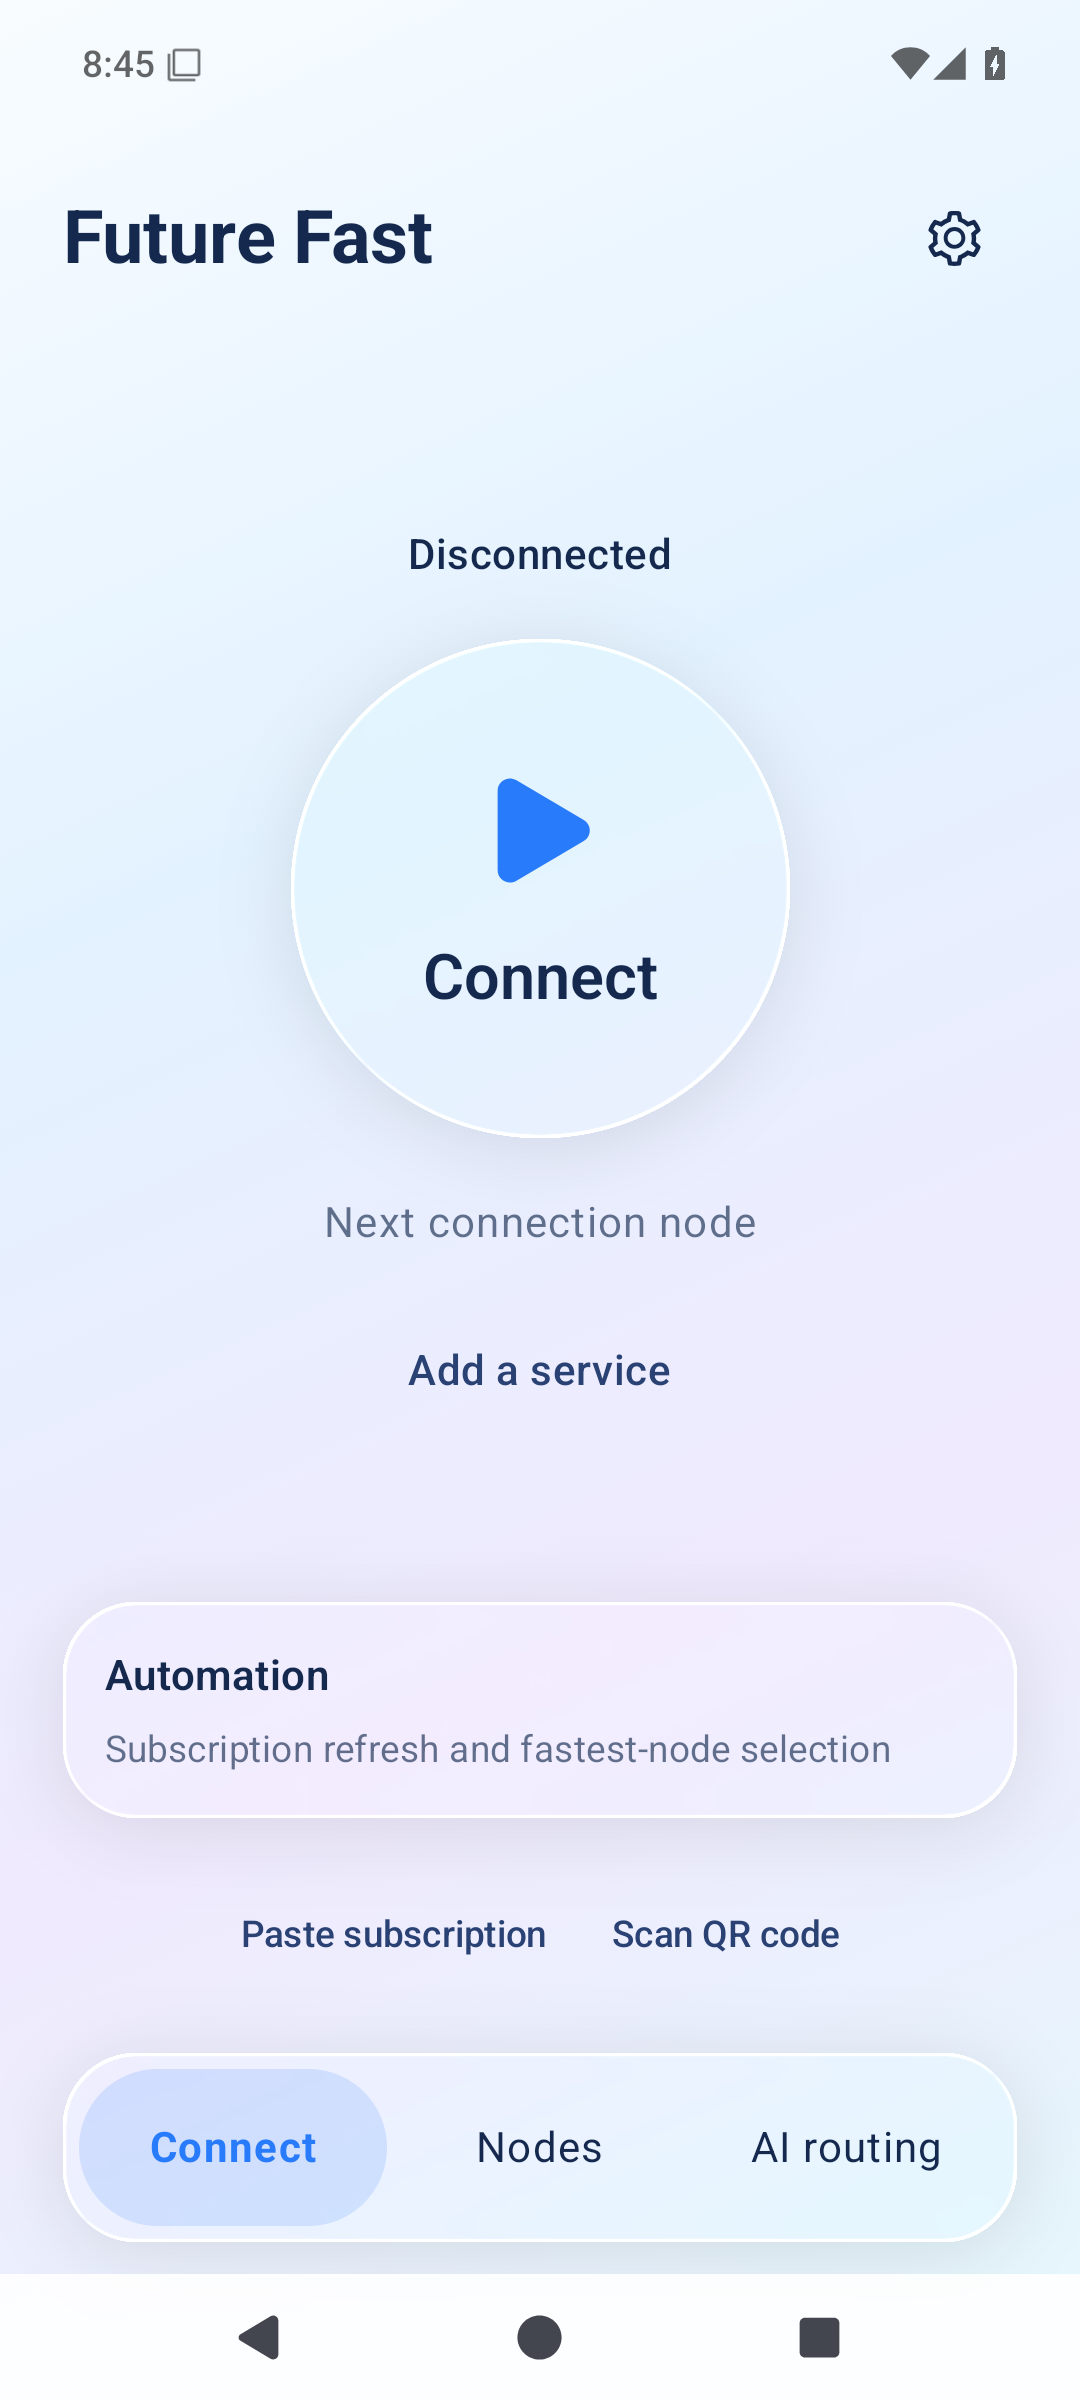
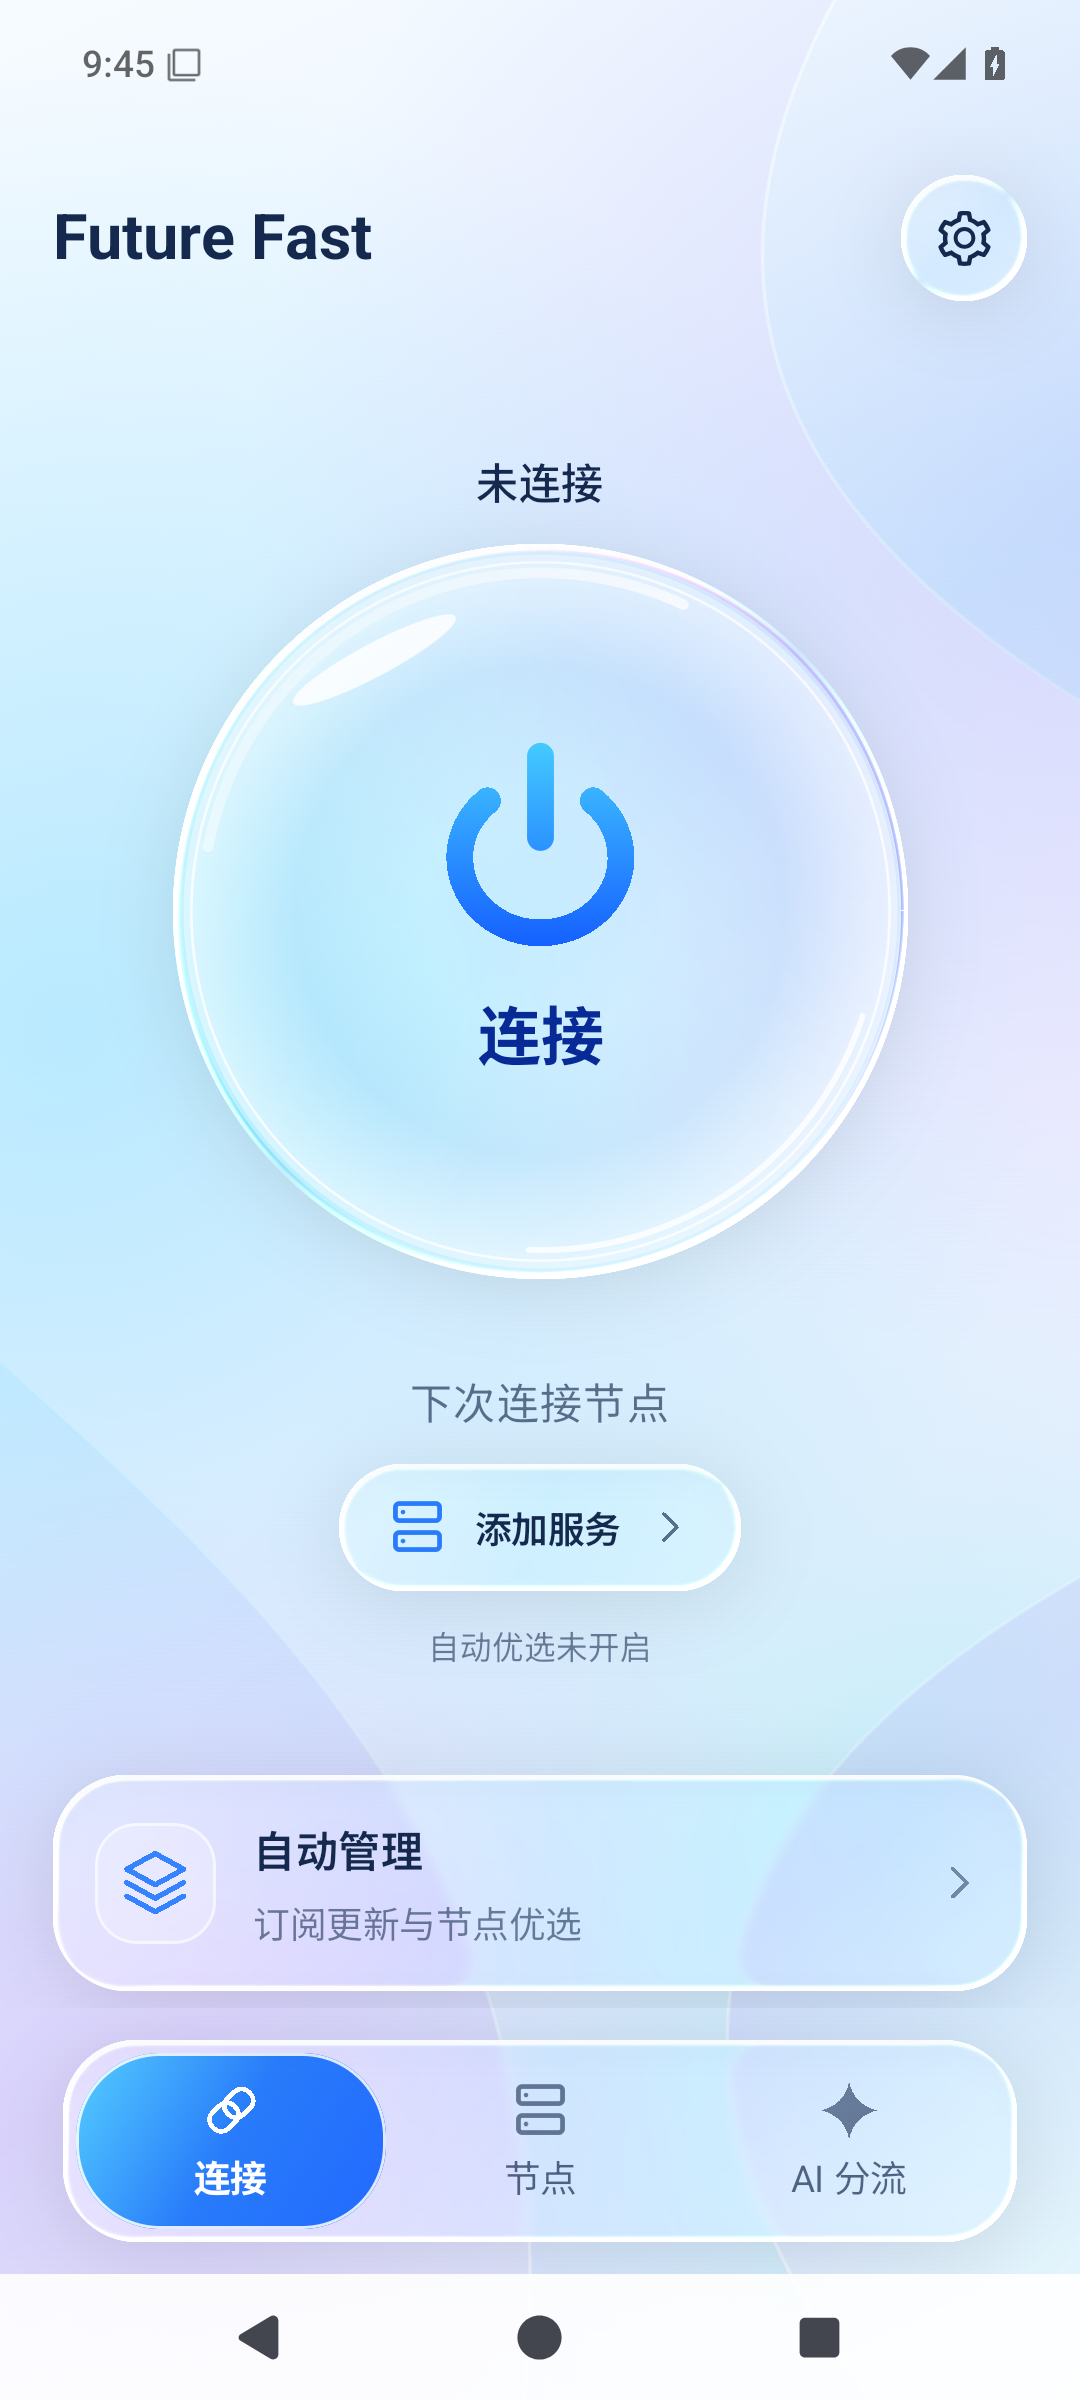
docs: show real FutureFast 0.1.1 screens and tested APK [skip ci]

diff --git a/docs/VALIDATION.md b/docs/VALIDATION.md
@@ -1,35 +1,38 @@
-# FutureFast 0.1.0 验证记录
+# FutureFast 0.1.1 验证记录
 
-## 已完成的构建检查
+日期：2026-10-20。结果对应提交 `b8b1da71c1c3a537303a03bdd28155f51106e05a`。
 
-日期：2026-10-20。以下结果只对应提交 `424d55b5a9ce80ae3b595dad17ca8d6bc73e3290`。
+[GitHub Actions / 39401539475](https://github.com/davidren0513/FutureFast/actions/runs/39401539475)
 
-[GitHub Actions / 39394813378](https://github.com/davidren0513/FutureFast/actions/runs/39394813378) 已成功完成：
+## 已完成的检查
 
 - `:app:testPlaystoreDebugUnitTest --tests com.v2ray.ang.dto.FutureFastPolicyTest`
 - `:app:testPlaystoreDebugUnitTest`
 - `:app:compilePlaystoreDebugKotlin`
-- `:app:assemblePlaystoreDebug`
-- `:app:assembleFdroidDebug`
-- 各 APK / ABI 中的 `libgojni.so`、`libhev-socks5-tunnel.so`、`libhevsockstun.so` 打包检查及 SHA256SUMS 生成。
-- Android 35 x86_64 模拟器安装、启动、进程存活和 crash buffer 检查。实际首页截图已保存到 [screenshots/home.png](screenshots/home.png)。
-- 上游 instruction 文件边界和补丁空白检查。
+- `:app:assemblePlaystoreDebug` 和 `:app:assembleFdroidDebug`
+- `:app:lintPlaystoreDebug` 和 `:app:lintFdroidDebug`
+- 每个 APK 内各 ABI 的 Xray / HEV 原生库打包与 SHA256SUMS。
+- 上游 instruction 文件边界和 `git diff --check`。
+- Android 35 x86_64：安装、启动、简体中文首页、触摸进入自动管理和 AI 分流、返回首页、切换暗色、进程存活与 crash buffer 检查。实际截图及 UIAutomator XML 见本次构建的 `FutureFast-emulator-smoke`。
 
-此代码通过 PR #2 合入主分支。后续 README 和截图文档更新不改变 Android 代码；文档检查不能替代新代码提交的构建或设备验证。最新主分支结果请查看 [Actions](https://github.com/davidren0513/FutureFast/actions/workflows/future-fast-preview.yml)。
+截图只验证所显示的空节点状态和外观，不代表真实网络连接、无障碍或后台调度已经验证。后续文档与截图提交不改变 APK 源码；它们的文档检查不替代 Android 构建。
 
 ## Not run
 
-| 尚未完成的检查 | 原因 |
+| 检查或场景 | 原因 |
 | --- | --- |
-| 真实 JMS 订阅、协议握手、测速优选与 ChatGPT / Claude / Gemini 端到端访问 | 没有用于验证的真实服务配置 |
-| VPN / 仅代理 / root 的重复启动、失败清理、停止竞争、网络切换与恢复 | 本次模拟器仅执行无节点的启动检查 |
-| 自动更新 / 优选 / AI 设置关闭重开与重启持久化、订阅替换并发、系统休眠调度 | 尚未完成设备专项验证 |
-| TalkBack、键盘与 D-pad、表单 IME 遍历、大字体、暗色和旧系统降级 | 尚未完成设备专项验证 |
+| 真实 JMS 订阅、握手、测速优选及 ChatGPT / Claude / Gemini 端到端访问 | 没有可用于测试的真实服务配置 |
+| VPN / 仅代理 / root 生命周期、失败恢复、网络切换和停止竞争 | 本次设备检查仅覆盖无节点界面 |
+| 加载、错误、已有节点与连接中的各呈现状态 | 本次截图使用全新无节点安装 |
+| TalkBack spoken label / state / focus order / activation；键盘 Enter / Space 和 D-pad 激活 | 尚未完成专项设备检查；XML 不能替代 TalkBack |
+| 大字体、表单 IME 首末控件遍历、动态颜色与双列模式 | 尚未完成专项布局与交互检查 |
+| Android 7–12 玻璃降级路径 | 本次模拟器为 Android 35，不能验证旧系统 |
+| 自动设置重开与重启持久化、休眠调度、订阅替换并发 | 尚未完成专项设备检查 |
 
 ## 当前边界
 
-- 预览包使用测试签名，尚未配置正式发布签名。
-- 单节点的硬超时由现有 Xray 核心控制。
-- 节点和高级设置页面保留原布局。
-- AI 规则覆盖列出的服务域名；共享登录域名和平台访问条件仍可能影响可用性。
-- 非中文新增文案当前主要为英文。
+- 这是测试签名预览包，尚未配置正式发布签名。早期缓存未保存实际签名文件，不同构建不保证可覆盖安装；更新前请先在旧版导出配置并确认可恢复。
+- 连接、自动管理、AI 分流按原设计重做；节点管理和高级设置仍保留原布局。
+- 设计图中的“自定义域名”“其他 AI”“单节点硬超时”等扩展控件尚未实现。单节点硬超时仍由 Xray 核心控制。
+- Android 13+ 使用 Backdrop 实时透镜、模糊与高光；旧系统使用渐变、高光和半透明降级路径。
+- 非中文新增文案目前主要为英文。

diff --git a/docs/screenshots/README.md b/docs/screenshots/README.md
@@ -1,12 +1,13 @@
-# FutureFast 实际界面截图
+# FutureFast 0.1.1 实际截图
 
-[home.png](home.png) 是应用运行中的直接截图，保留原始像素，未补写节点、延迟或连接状态。
+这些图片由 Android 35 x86_64 模拟器安装实际 APK 后，通过 adb screencap 获取，没有使用设计稿替代运行结果。
 
-- 应用：Future Fast 0.1.0，包名 `tech.future.fast`
-- 源码提交：`424d55b5a9ce80ae3b595dad17ca8d6bc73e3290`
-- 环境：Android 35 / x86_64 / Pixel 6 模拟器，英文系统
-- 状态：新安装，未导入节点，未连接
-- 来源：[Actions 39394813378](https://github.com/davidren0513/FutureFast/actions/runs/39394813378) 的 `FutureFast-emulator-smoke` Artifact
-- 日期：2026-10-20
+- 源码：`b8b1da71c1c3a537303a03bdd28155f51106e05a`
+- 构建：[39401539475](https://github.com/davidren0513/FutureFast/actions/runs/39401539475)
+- 环境：Pixel 6 模拟器，简体中文，空节点与默认关闭的自动管理 / AI 分流设置。
+- `home.png`：连接首页。
+- `automation.png`：触摸首页自动管理卡片后进入的页面。
+- `ai.png`：触摸底部 AI 分流入口后进入的页面。
+- `home-dark.png`：系统切换为深色后的首页。
 
-其他页面尚未收录实际运行截图。此截图只证明首页的呈现，不代表真实代理连接、自动管理或 AI 服务访问已完成端到端验证。
+完整 UIAutomator XML 和 crash buffer 保存在该次构建的 `FutureFast-emulator-smoke` artifact。截图验证外观，不代替 TalkBack、键盘、真实订阅或网络连接验证；详见 [VALIDATION.md](../VALIDATION.md)。
